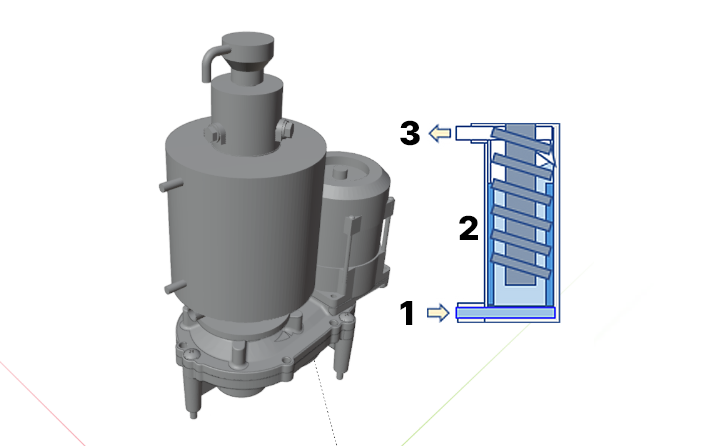
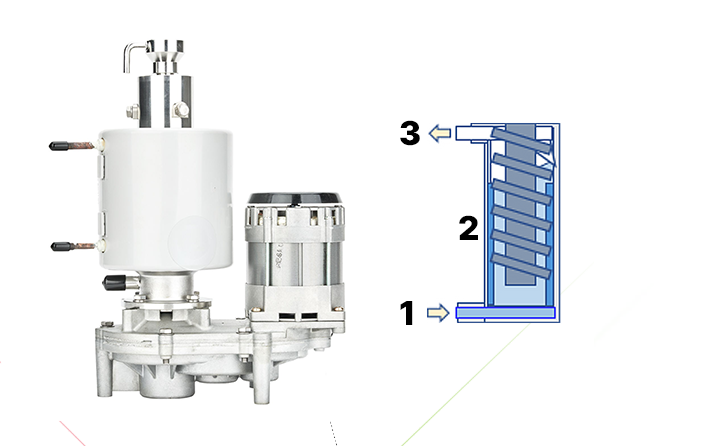
[251212] 수정요청사항 반영

Changed region(s): [[0.0604, 0.0583, 0.544, 0.9327]]

diff --git a/src/components/pages/Main.tsx b/src/components/pages/Main.tsx
@@ -52,7 +52,7 @@ export default function Main({language} : Props) {
                                     <p>{language?.main_23}</p>
                                     <p>{language?.main_24}</p>
                                     <p className="go-link">
-                                        <Link href="https://dongpae.co.kr/" className="shadow">{language?.main_25}<Image src="/img/iceup/arrow.png" alt="" width={44} height={19}/></Link>
+                                        <Link href="https://hicomp.co.kr/" className="shadow">{language?.main_25}<Image src="/img/iceup/arrow.png" alt="" width={44} height={19}/></Link>
                                     </p>
                                 </div>
                             </div>

diff --git a/src/components/iceup/Footer.tsx b/src/components/iceup/Footer.tsx
@@ -59,7 +59,7 @@ export default function Footer({language} : any) {
                             </p>
 
                             {/*<SocialLinks className="nav social social-white"/>*/}
-                            <p className="text-white">&copy; Dongpae International Co., Ltd All rights reserved.</p>
+                            <p className="text-white">&copy; HICOMP All rights reserved.</p>
                         </div>
                     </div>
                 </div>
